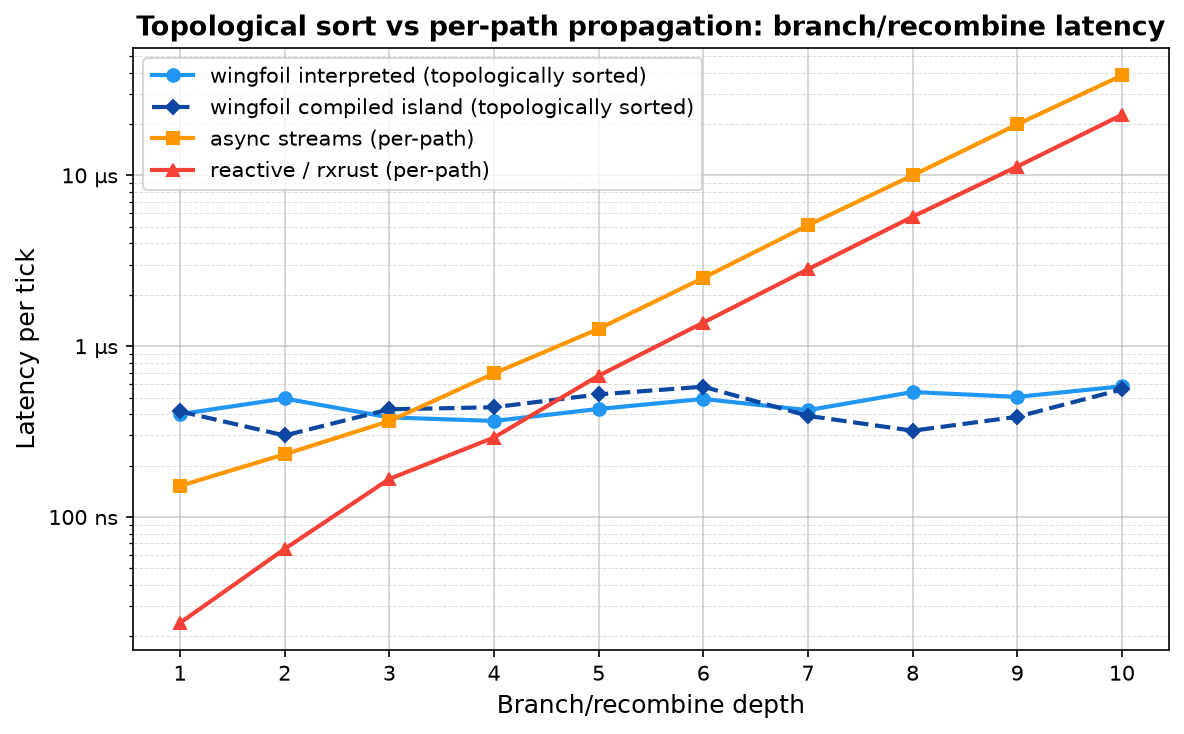
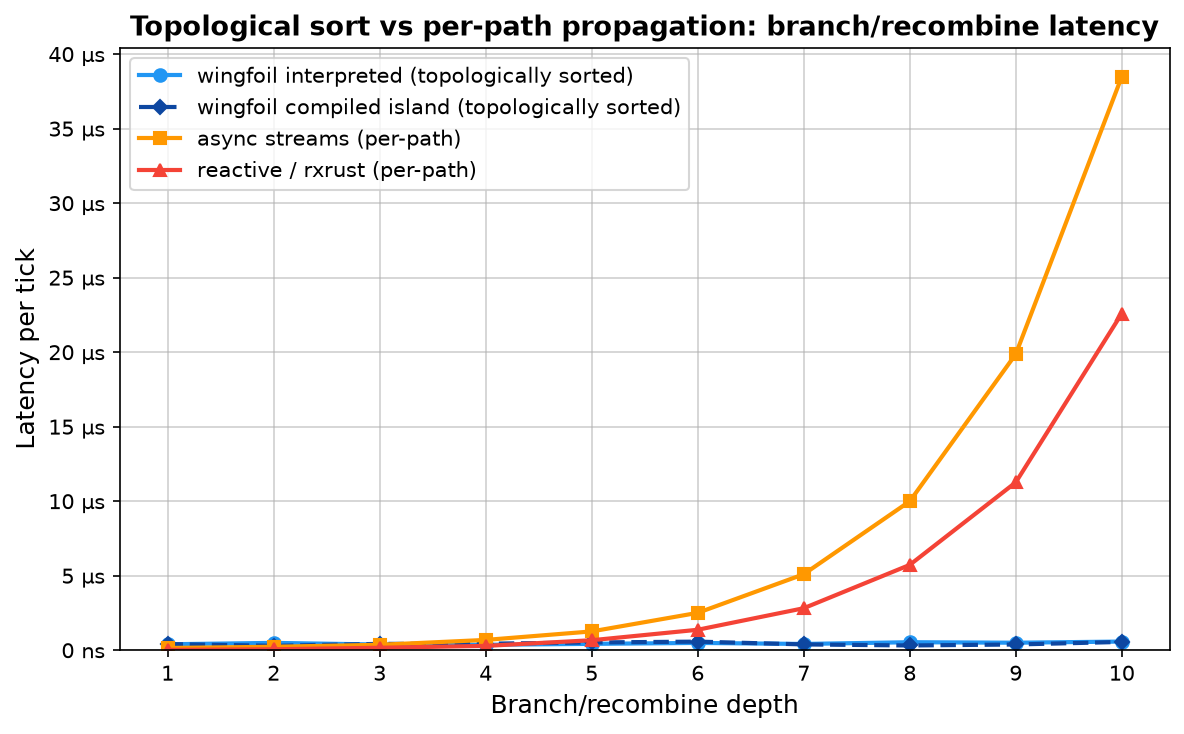
Draw the topo comparison charts on a linear axis as well as a log one
A log axis is the only way to read the low end of these charts — the
crossovers, and the separation between the three wingfoil tiers, all live
under 1 µs against a top end of 38.5 µs. But it also flattens the thing
the bench exists to show: on a log axis a doubling is a straight line,
indistinguishable at a glance from anything else that rises.

So render both from the same arrays. The linear chart leads in both
READMEs, because it makes O(2^N) look like O(2^N) — the baselines go
near-vertical while every wingfoil series pins to the floor — and each
one links its `_log` twin for the detail it cannot show.

Factors the duplicated plotting into a `render()` helper that takes the
series and emits the pair, rather than open-coding a third and fourth
near-identical block.

Claude-Session: https://claude.ai/code/session_01SEZY7WXyoerabrxC27jdLY

diff --git a/crates/wingfoil-next/benches/topological_vs_per_path/plot.py b/crates/wingfoil-next/benches/topological_vs_per_path/plot.py
@@ -1,5 +1,7 @@
-# Renders latency.png, per_cycle.png and cross_library.png for the
-# topological-sort vs per-path-propagation branch/recombine comparison.
+# Renders the charts for the topological-sort vs per-path-propagation
+# branch/recombine comparison: latency.png and cross_library.png on a linear
+# axis, latency_log.png and cross_library_log.png on a log one (same data drawn
+# twice — linear for the shape, log to read the low end), plus per_cycle.png.
 #
 # The arrays below are *readings*, not source: refill them from a local run
 # before regenerating the plots, since criterion wall-clock numbers are
@@ -66,33 +68,56 @@ def fmt_time(y, _):
 
 
 def log_axis(ax):
-    plt.yscale('log')
+    ax.set_yscale('log')
     ax.yaxis.set_major_locator(ticker.LogLocator(base=10))
     ax.yaxis.set_minor_locator(ticker.LogLocator(base=10, subs=[2, 3, 4, 5, 6, 7, 8, 9]))
     ax.yaxis.set_major_formatter(ticker.FuncFormatter(fmt_time))
     ax.yaxis.set_minor_formatter(ticker.NullFormatter())
 
 
-# --- Chart 1: the cross-library comparison, per tick, log scale -------------
+def linear_axis(ax):
+    ax.set_ylim(bottom=0)
+    ax.yaxis.set_major_formatter(ticker.FuncFormatter(fmt_time))
+
+
+def render(series, ylabel, title, stem, legend_size):
+    """Draw the same series twice — linear for impact, log to read the low end.
+
+    A linear axis is what makes the doubling visible as doubling: the per-path
+    baselines go near-vertical while every wingfoil line flattens onto the
+    floor. It is also unreadable below ~1 µs, which is where the crossovers and
+    the whole separation between the wingfoil tiers live — hence both, with the
+    README leading on the linear one and linking the log one for detail.
+    """
+    for suffix, axis in (('', linear_axis), ('_log', log_axis)):
+        fig, ax = plt.subplots(figsize=(8, 5))
+        for ys, marker, color, label in series:
+            ax.plot(depths, ys, marker, color=color, linewidth=2,
+                    markersize=5 if '--' in marker else 6, label=label)
+        axis(ax)
+        style(ax, ylabel, title, legend_size)
+        fig.tight_layout()
+        fig.savefig(f'{stem}{suffix}.png', dpi=150, bbox_inches='tight')
+        plt.close(fig)
+
+
+# --- Chart 1: the cross-library comparison, per tick ------------------------
 #
 # All four series are one tick through their own harness. The wingfoil pair is
 # the only one paying a cross-thread handshake, which is why they sit a few
 # hundred ns up and read as flat well before the graph is: see the README.
-fig, ax = plt.subplots(figsize=(8, 5))
-
-ax.plot(depths, wingfoil, 'o-', color=INTERP_COLOR, linewidth=2, markersize=6,
-        label='wingfoil interpreted (topologically sorted)')
-ax.plot(depths, nested, 'D--', color=ISLAND_COLOR, linewidth=2, markersize=5,
-        label='wingfoil compiled island (topologically sorted)')
-ax.plot(depths, async_s, 's-', color=ASYNC_COLOR, linewidth=2, markersize=6,
-        label='async streams (per-path)')
-ax.plot(depths, reactive, '^-', color=RX_COLOR, linewidth=2, markersize=6,
-        label='reactive / rxrust (per-path)')
-
-log_axis(ax)
-style(ax, 'Latency per tick', 'Topological sort vs per-path propagation: branch/recombine latency', 10)
-fig.tight_layout()
-fig.savefig('latency.png', dpi=150, bbox_inches='tight')
+render(
+    [
+        (wingfoil, 'o-', INTERP_COLOR, 'wingfoil interpreted (topologically sorted)'),
+        (nested, 'D--', ISLAND_COLOR, 'wingfoil compiled island (topologically sorted)'),
+        (async_s, 's-', ASYNC_COLOR, 'async streams (per-path)'),
+        (reactive, '^-', RX_COLOR, 'reactive / rxrust (per-path)'),
+    ],
+    'Latency per tick',
+    'Topological sort vs per-path propagation: branch/recombine latency',
+    'latency',
+    10,
+)
 
 # --- Chart 2: the three wingfoil tiers, per cycle, linear scale -------------
 #
@@ -127,23 +152,18 @@ fig2.savefig('per_cycle.png', dpi=150, bbox_inches='tight')
 # closest like-for-like available — the baselines have no handshake to remove,
 # and wingfoil's has been divided out. Mixed harnesses, so read the *slopes*;
 # the ratios are quoted in the README with that caveat attached.
-fig3, ax3 = plt.subplots(figsize=(8, 5))
-
-ax3.plot(depths, cyc_interp, 'o-', color=INTERP_COLOR, linewidth=2, markersize=6,
-         label='wingfoil interpreted (per cycle)')
-ax3.plot(depths, cyc_nested, 'D--', color=ISLAND_COLOR, linewidth=2, markersize=5,
-         label='wingfoil compiled island (per cycle)')
-ax3.plot(depths, cyc_compiled, 'v-', color=COMPILED_COLOR, linewidth=2, markersize=6,
-         label='wingfoil compiled (per cycle)')
-ax3.plot(depths, async_s, 's-', color=ASYNC_COLOR, linewidth=2, markersize=6,
-         label='async streams (per tick)')
-ax3.plot(depths, reactive, '^-', color=RX_COLOR, linewidth=2, markersize=6,
-         label='reactive / rxrust (per tick)')
-
-log_axis(ax3)
-style(ax3, 'Cost per tick / cycle',
-      'Topological sort vs per-path propagation, wingfoil harness removed', 9)
-fig3.tight_layout()
-fig3.savefig('cross_library.png', dpi=150, bbox_inches='tight')
+render(
+    [
+        (cyc_interp, 'o-', INTERP_COLOR, 'wingfoil interpreted (per cycle)'),
+        (cyc_nested, 'D--', ISLAND_COLOR, 'wingfoil compiled island (per cycle)'),
+        (cyc_compiled, 'v-', COMPILED_COLOR, 'wingfoil compiled (per cycle)'),
+        (async_s, 's-', ASYNC_COLOR, 'async streams (per tick)'),
+        (reactive, '^-', RX_COLOR, 'reactive / rxrust (per tick)'),
+    ],
+    'Cost per tick / cycle',
+    'Topological sort vs per-path propagation, wingfoil harness removed',
+    'cross_library',
+    9,
+)
 
 print("saved")

diff --git a/crates/wingfoil-next/benches/README.md b/crates/wingfoil-next/benches/README.md
@@ -353,6 +353,11 @@ paths.
 
 <img src="topological_vs_per_path/latency.png" width="640">
 
+(Linear axis, which is what makes the doubling read as doubling; it also pins
+both wingfoil series to the floor, so
+[the log version](topological_vs_per_path/latency_log.png) is where the
+crossovers and the tier separation are legible.)
+
 wingfoil-next stays flat across ten levels — every node visited once per tick —
 while both path-at-a-time libraries double per level (2.01× and 1.94× measured).
 At depth 10 the interpreted engine (582 ns) is **~39× faster than rxrust**
@@ -425,5 +430,7 @@ plots into [`images/`](images/), and prints each benchmark's estimate so the
 tables above can be refilled. The hand-drawn charts are rebuilt from data pasted
 into their scripts: [`plot_tiers.py`](plot_tiers.py) (tier summary) and
 [`topological_vs_per_path/plot.py`](topological_vs_per_path/plot.py), which
-renders three — `latency.png`, `per_cycle.png` and `cross_library.png` — for
-topological sort vs per-path propagation.
+renders five for topological sort vs per-path propagation: `latency.png` and
+`cross_library.png` on a linear axis, `latency_log.png` and
+`cross_library_log.png` on a log one (same data, drawn twice — linear for the
+shape, log to read the low end), plus `per_cycle.png`.

diff --git a/crates/wingfoil-next/benches/topological_vs_per_path/README.md b/crates/wingfoil-next/benches/topological_vs_per_path/README.md
@@ -14,7 +14,10 @@ determines whether a framework pays O(N) or O(2^N) per tick.
 <img src="latency.png" width="640">
 
 wingfoil stays flat while async streams and reactive double every level
-(O(2^N) per-path propagation). Point estimates, in nanoseconds per tick:
+(O(2^N) per-path propagation). The linear axis is what makes the doubling look
+like doubling; it also flattens every wingfoil series onto the floor, so
+[the same chart on a log axis](latency_log.png) is the one to read crossovers
+and tier separation off. Point estimates, in nanoseconds per tick:
 
 | Depth | wingfoil-next interpreted | wingfoil-next compiled island | rxrust (per-path, 2 emissions/sample) | tokio async (per-path) |
 |---|---|---|---|---|
@@ -176,6 +179,10 @@ self-contained; compare within a table, not across to an older one.
 #### The same comparison, with the wingfoil handshake removed
 
 <img src="cross_library.png" width="640">
+
+Again linear for the shape and [log for the detail](cross_library_log.png) —
+on a linear axis all three wingfoil tiers are one line on the floor, which is
+the point being made and also why the log version exists.
 
 The table at the top is the measurement the three targets actually make, and it
 is the only one where every series is timed identically. It is also conservative:
